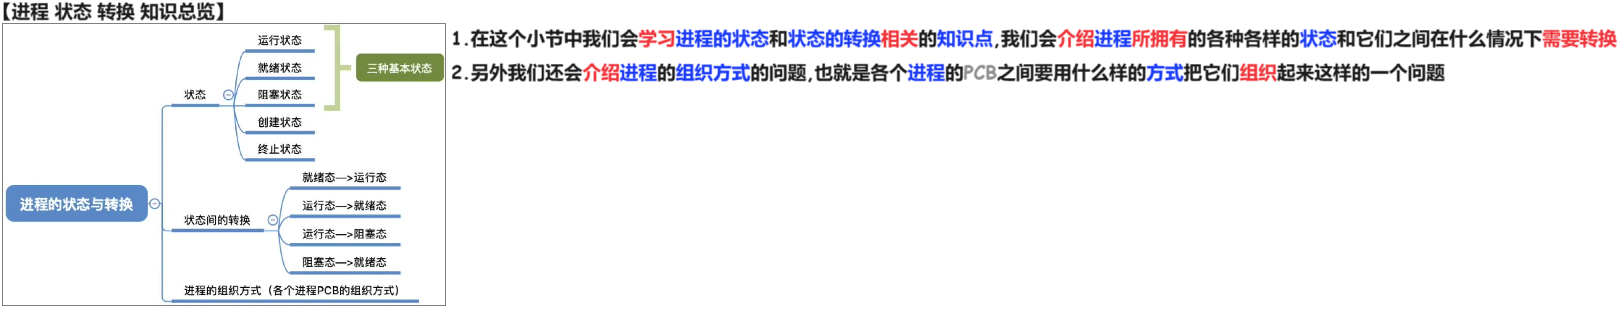
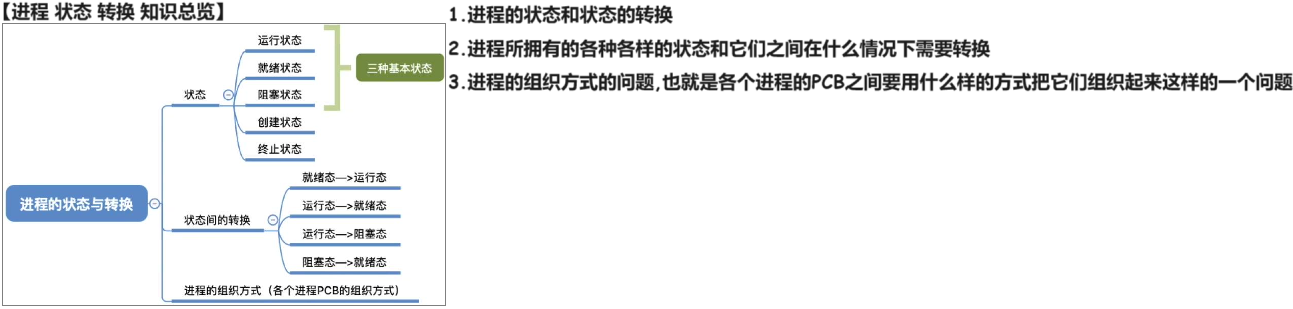
240606

Changed region(s): [[0.0928, 0.0, 1.0, 0.5243], [0.0, 0.5534, 0.3403, 0.9903], [0.0, 0.0, 0.1856, 0.0874]]

diff --git a/01 初试/01 OS/02 24 25 王道/01 基础/02 进程 线程/01 进程 线程/02 进程状态 转换 240606/02 消化/02 Doc.md b/01 初试/01 OS/02 24 25 王道/01 基础/02 进程 线程/01 进程 线程/02 进程状态 转换 240606/02 消化/02 Doc.md
@@ -4,13 +4,13 @@
 
 # 01 进程 状态 转换 知识总览
 
-<img src="https://cvp.oss-cn-shanghai.aliyuncs.com/picgo/202405110930571.png" alt="image-20240511093030474" style="zoom:50%;" />
+<img src="https://cvp.oss-cn-shanghai.aliyuncs.com/picgo/202406061118404.png" alt="image-20240606111834196" style="zoom:50%;" />
 
 
 
 # 02 进程状态 创建态 就绪态
 
-<img src="https://cvp.oss-cn-shanghai.aliyuncs.com/picgo/202405110943242.png" alt="image-20240511094301130" style="zoom:50%;" />
+
 
 
 
